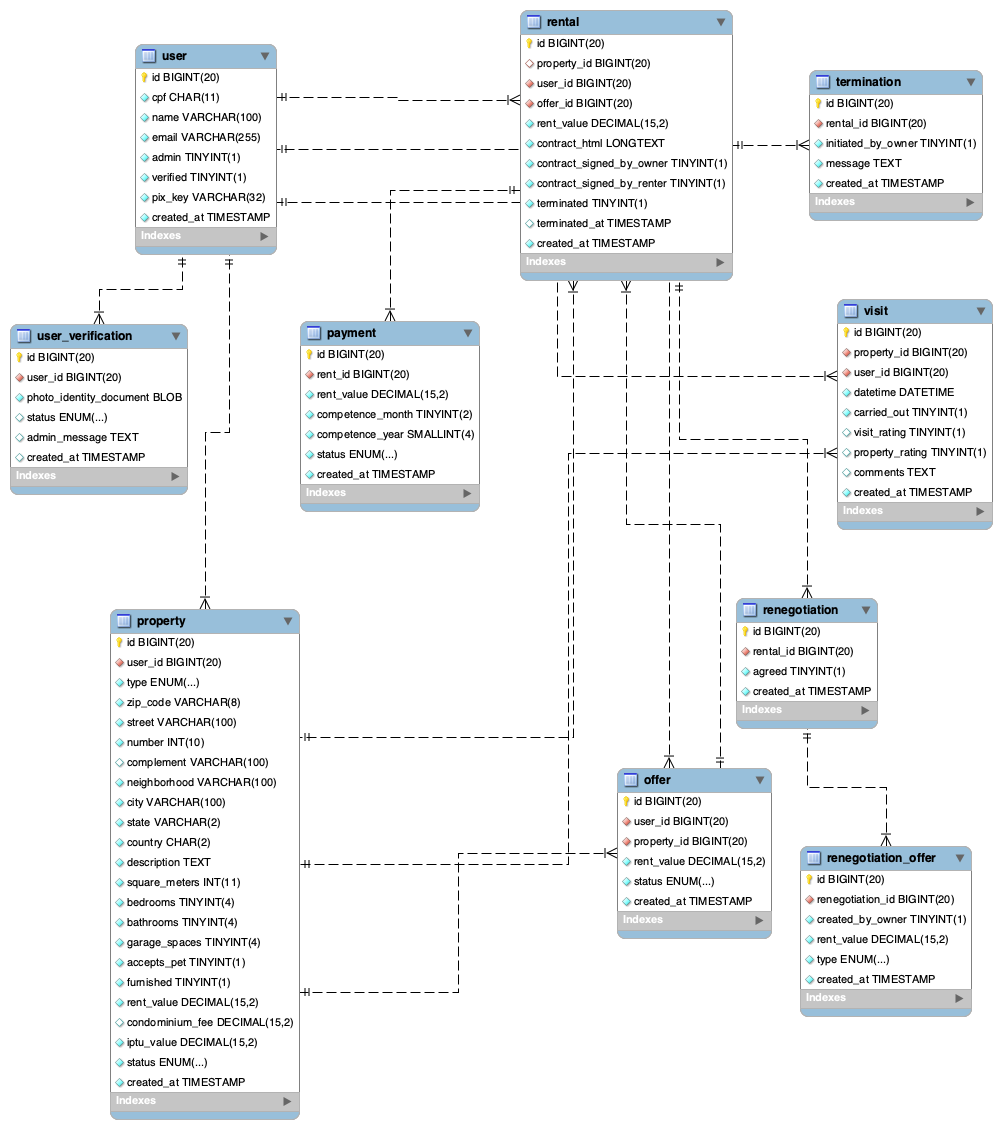
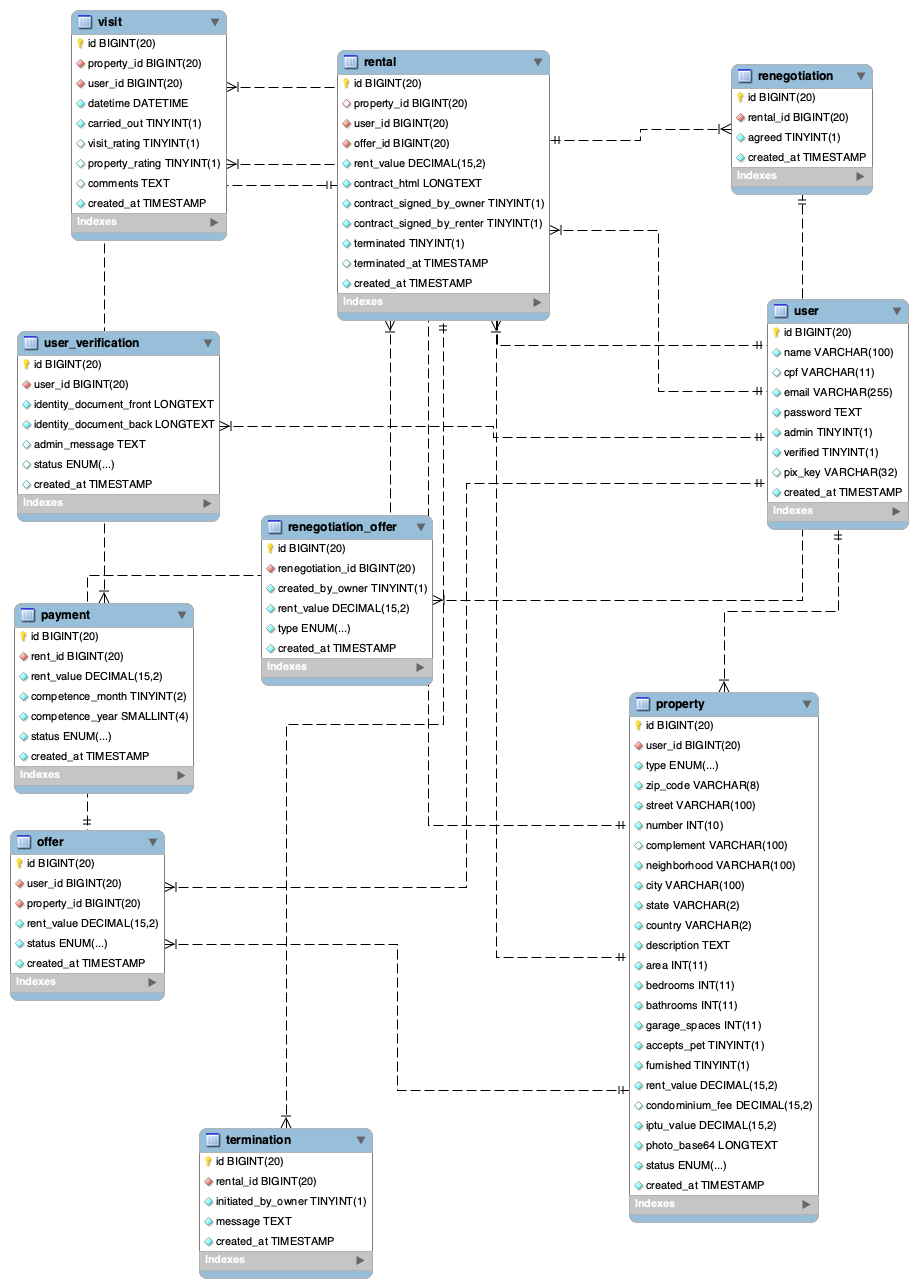
Atualizando diagrama de entidade relacional.

diff --git a/assets/database/README.md b/assets/database/README.md
@@ -1,17 +1,18 @@
 # Artefatos relativos à modelagem de dados do projeto
 
-Este diretório mantém os artefatos relativos à modelagem de dados do projeto. 
+Este diretório mantém os artefatos relativos à modelagem de dados do projeto.
 
 Os principais documentos a serem produzidos são:
 
+- [`Entity-Relation Diagram`](DER.mwb)
 
-* [`Entity-Relation Diagram`](DER.erd)
-	* Apresentar o DER em arquivo editável no formato compatível com a ferramenta utilizada pela equipe.
+  - Apresentar o DER em arquivo editável no formato compatível com a ferramenta utilizada pela equipe.
 
-* [`database_creation_script.sql`](database_creation_script.sql)
-	* Script de criação do banco de dados.
+- [`database_creation_script.sql`](database_creation_script.sql)
 
-* [`database_data_initialization_script.sql`](database_data_initialization_script.sql)
-	* Script de inicialização (povoamento) do banco de dados.
+  - Script de criação do banco de dados.
+
+- [`database_data_initialization_script.sql`](database_data_initialization_script.sql)
+  - Script de inicialização (povoamento) do banco de dados.
 
 Demais artefatos que julgar pertinentes.
